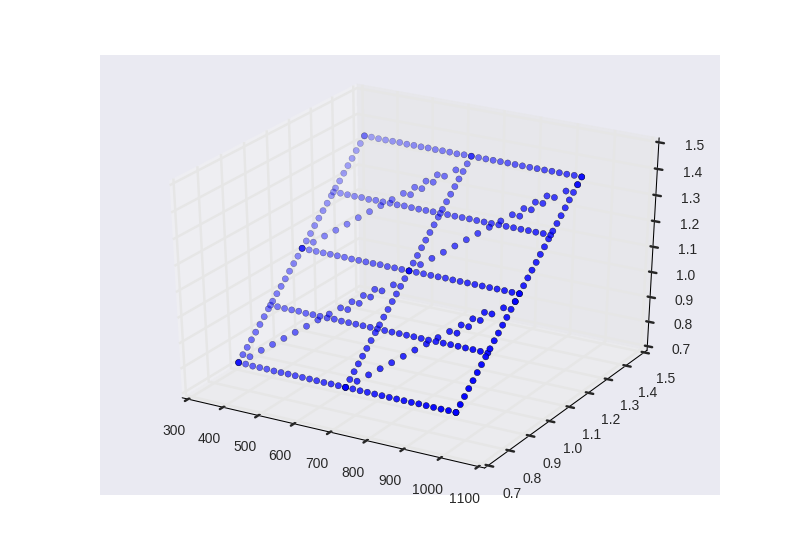
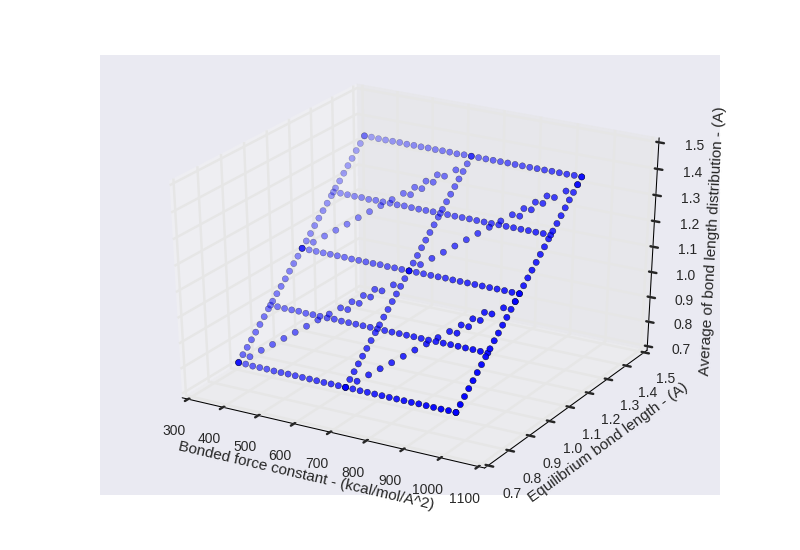
added contour plots of observables

diff --git a/single-molecule-property-generation/graph_bl.py b/single-molecule-property-generation/graph_bl.py
@@ -9,6 +9,7 @@ import matplotlib.mlab as mlab
 import matplotlib.pyplot as plt
 
 import scipy as sp
+from scipy.interpolate import griddata
 import seaborn as sns
 
 from scipy.stats import norm
@@ -23,10 +24,38 @@ fig = plt.figure()
 ax = fig.add_subplot(111, projection='3d')
 
 ax.scatter(df.k_values,df.length_values,df.bond_length_average)
+ax.set_xlabel('Bonded force constant - (kcal/mol/A^2)')
+ax.set_ylabel('Equilibrium bond length - (A)')
+ax.set_zlabel('Average of bond length distribution - (A)')
 plt.savefig('bond_length_average_vs_k_length.png')
 
 fig = plt.figure()
 ax = fig.add_subplot(111, projection='3d')
 
 ax.scatter(df.k_values,df.length_values,df.bond_length_variance)
+ax.set_xlabel('Bonded force constant - (kcal/mol/A^2)')
+ax.set_ylabel('Equilibrium bond length - (A)')
+ax.set_zlabel('Variance of bond length distribution - (A^2)')
 plt.savefig('bond_length_variance_vs_k_length.png')
+
+
+grid_x, grid_y = np.mgrid[0:1200:100j, 0:1.75:200j]
+
+z1 = griddata([[i,j] for i,j in zip(df.k_values,df.length_values)], df.bond_length_average, (grid_x, grid_y), method='cubic')
+z2 = griddata([[i,j] for i,j in zip(df.k_values,df.length_values)], df.bond_length_variance, (grid_x, grid_y), method='cubic')
+
+plt.figure()
+CS = plt.contour(grid_x,grid_y,z1)
+plt.clabel(CS, inline=1, fontsize=10)
+plt.xlabel('Bonded force constant - (kcal/mol/A^2)')
+plt.ylabel('Equilibrium bond length - (A)')
+plt.title('Average of bond length distribution vs k_Bond and x_0 - (A)')
+plt.savefig('bond_length_average_vs_k_length_contour.png')
+
+plt.figure()
+CS = plt.contour(grid_x,grid_y,z2)
+plt.clabel(CS, inline=1, fontsize=10)
+plt.xlabel('Bonded force constant - (kcal/mol/A^2)')
+plt.ylabel('Equilibrium bond length - (A)')
+plt.title('Variance of bond length distribution vs k_Bond and x_0 - (A^2)')
+plt.savefig('bond_length_variance_vs_k_length_contour.png')
